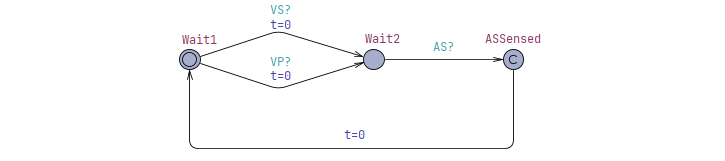
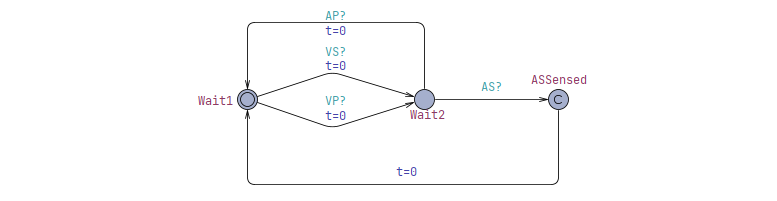
PVARP and VRP monitor change

diff --git a/cs705_as1/README.md b/cs705_as1/README.md
@@ -18,7 +18,12 @@ const int PVARP = 100;
 const int URI = 400; 
 const int LRI = AEI + AVI;
 ```
+**Random Heart Model (RHM)**
+The RHM will be what generates ventricular and atrial events for the uppaal model.
 
+![](resources/RHM.png)
+
+*Figure 2: Random Heart Model*
 ### Lower Rate Interval (LRI) and Atrial Escape Interval (AEI)
 **LRI**, the maximum time interval between two consecutive ventricular events. In dual chamber mode, LRI time interval equals the summation of AVI and AEI. It serves as the lower bound for the heart rate, and hence the value of LRI is greater than URI.
 **AEI**, the maximum time interval between a ventricular event and the corresponding atrial event.
